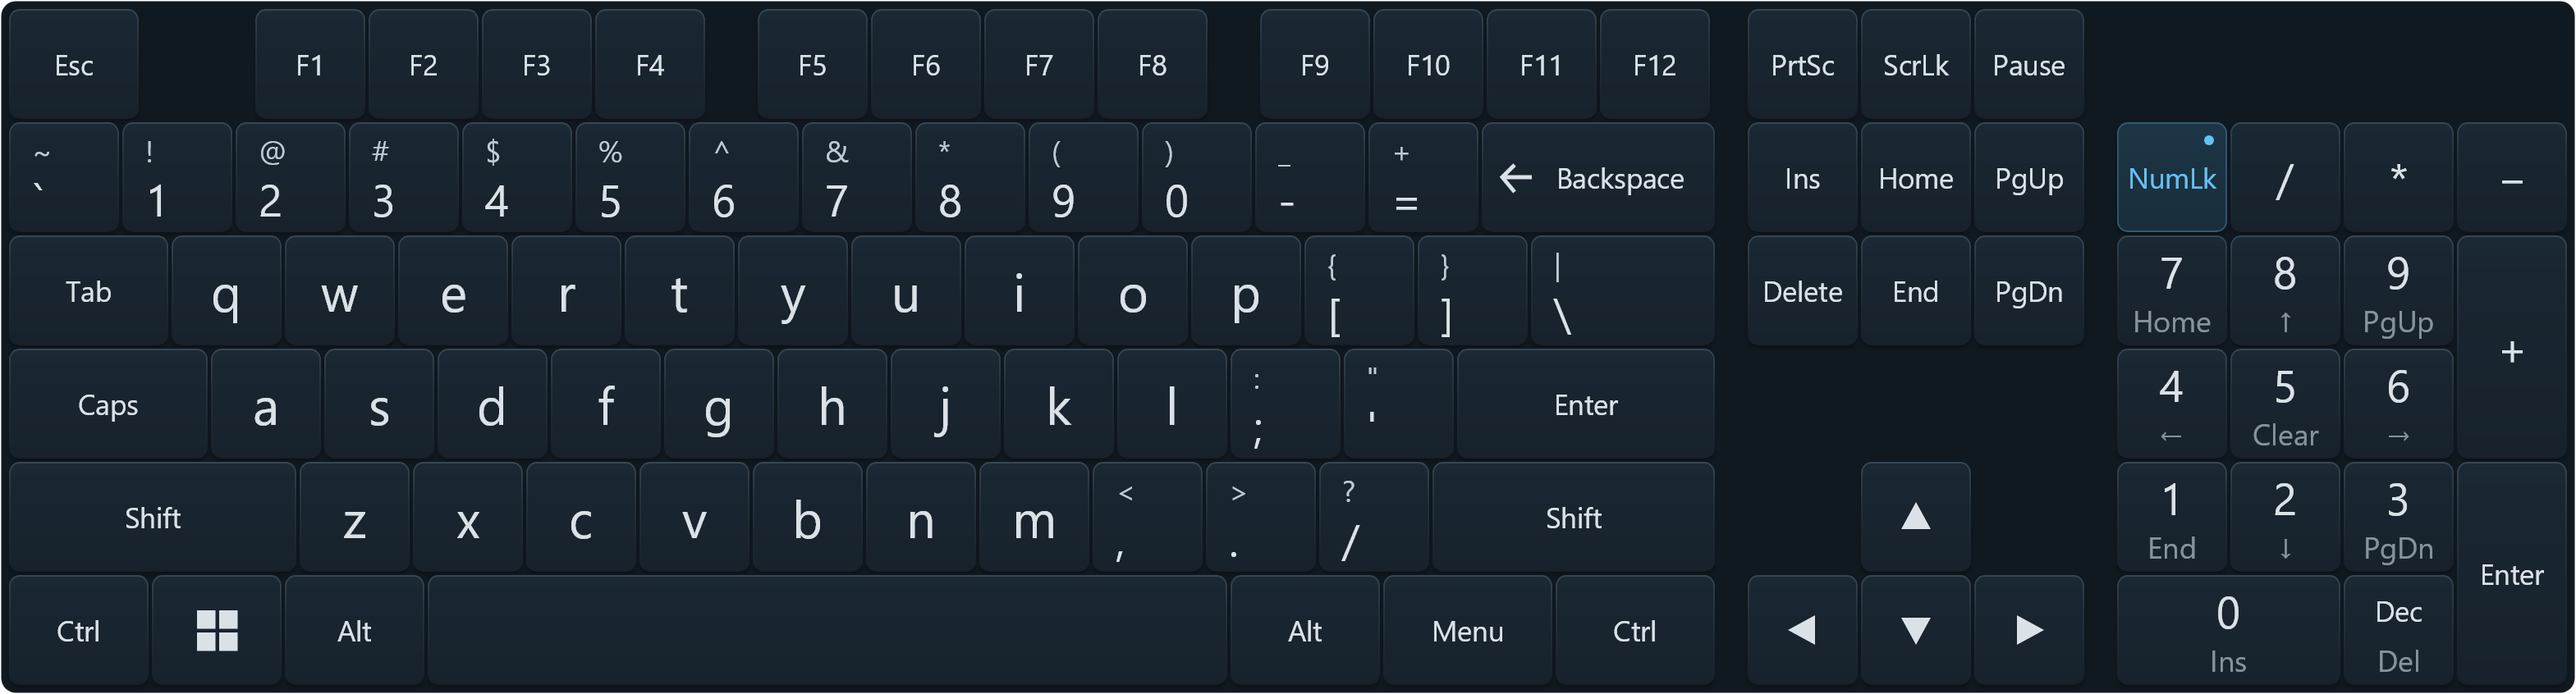
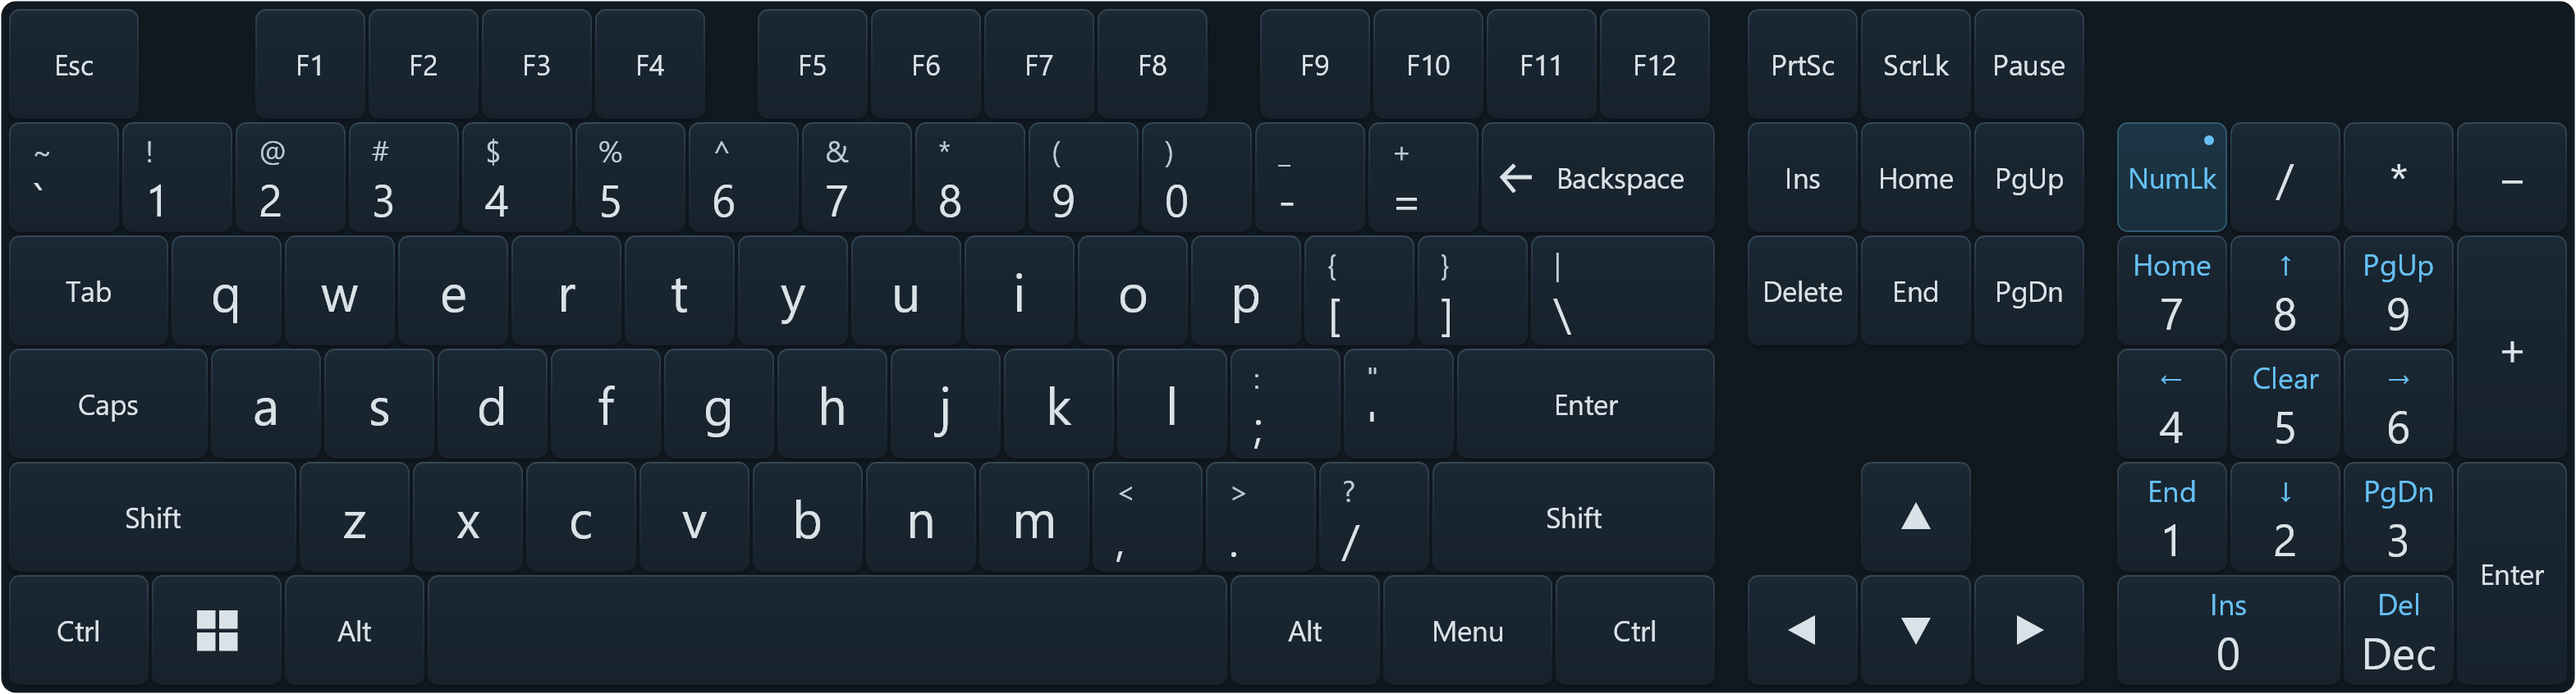
Match numpad active legends to keyboard styling

diff --git a/src/GoBoard.Presentation.Skia/Panel.cs b/src/GoBoard.Presentation.Skia/Panel.cs
@@ -126,13 +126,21 @@ internal static class Panel
                     0x52 => "Ins", 0x53 => "Del", _ => null
                 };
                 var navigationMode = keyboard?.NumLock == false;
-                if (navigation != null && navigationMode && !filled) paint.Color = style.Secondary.WithAlpha(170);
-                Center(canvas, key.Label, rect.MidX, rect.MidY - (navigation != null ? 8 : 0),
-                    key.Label.Length == 1 ? number : special, paint);
-                if (navigation != null)
+                if (navigation == null)
+                    Center(canvas, key.Label, rect.MidX, rect.MidY, key.Label.Length == 1 ? number : special, paint);
+                else
                 {
-                    paint.Color = filled ? Ink : navigationMode ? Accent : style.Secondary.WithAlpha(170);
-                    Center(canvas, navigation, rect.MidX, rect.MidY + 12, secondary, paint);
+                    var active = navigationMode ? navigation : key.Label;
+                    var alternate = navigationMode ? key.Label : navigation;
+                    // Match ordinary dual legends: small alternate above, full-size
+                    // normal-colored output below. Fit long names without reducing height.
+                    using var activeFont = new SKFont(face, number.Size)
+                    {
+                        ScaleX = Math.Min(1, (rect.Width - 8) / Math.Max(1, number.MeasureText(active)))
+                    };
+                    canvas.DrawText(active, rect.MidX, rect.Bottom - 6, SKTextAlign.Center, activeFont, paint);
+                    paint.Color = filled ? Ink : Accent;
+                    canvas.DrawText(alternate, rect.MidX, rect.Top + 16, SKTextAlign.Center, secondary, paint);
                 }
             }
             else if (key.Id is "Up" or "Down" or "Left" or "Right") DrawArrow(canvas, key.Id, rect.MidX, rect.MidY, paint);

diff --git a/docs/development.md b/docs/development.md
@@ -121,7 +121,7 @@ The default panel is 850 x 282 logical units, rendered at 2550 x 846 and display
 
 **Settings → General → Arrangement → Numpad** adds a standard 17-key keypad to the right of the main keyboard in desktop and VR. It defaults to off and is saved independently of the physical ANSI/ISO arrangement and shortcut palette. Main key positions and sizes are unchanged; the panel grows from 850 to 1046 logical units (about 111 cm wide at 100% in VR). Desktop mode fits the wider keyboard to the monitor's work area when necessary.
 
-The keys use physical keypad identities, including extended Divide and Enter, through the same guarded input path as the main keys. Digits and decimal follow Windows Num Lock; the NumLk indicator reflects the Windows toggle. Secondary labels show Home/End, PgUp/PgDn, arrows, Ins/Del and Clear (keypad 5); they turn cyan when Num Lock is off, while the numeric labels become muted. Clear is a Windows key action, with behavior determined by the receiving app ([Windows keypad mappings](https://github.com/microsoft/Windows-driver-samples/blob/main/input/layout/all_kbds/kbdfr/kbdfr.c)). `Dec` is an action label because Windows controls the decimal separator. Digits and operators repeat with their captured modifier chord; Num Lock and Enter do not repeat. Main-keyboard one-shot and locked modifiers also apply to the keypad.
+The keys use physical keypad identities, including extended Divide and Enter, through the same guarded input path as the main keys. Digits and decimal follow Windows Num Lock; the NumLk indicator reflects the Windows toggle. Each dual-purpose key shows its Num Lock action in the normal text color at the same 18-unit size as the main keyboard's primary symbols, with the alternate action above in smaller cyan text. Turning Num Lock off swaps the numeric and navigation labels (Home/End, PgUp/PgDn, arrows, Ins/Del and Clear on keypad 5). Long primary names fit the key width without reducing their height. Clear is a Windows key action, with behavior determined by the receiving app ([Windows keypad mappings](https://github.com/microsoft/Windows-driver-samples/blob/main/input/layout/all_kbds/kbdfr/kbdfr.c)). `Dec` is an action label because Windows controls the decimal separator. Digits and operators repeat with their captured modifier chord; Num Lock and Enter do not repeat. Main-keyboard one-shot and locked modifiers also apply to the keypad.
 
 Changing the toggle cancels keyboard captures, repeat, hover and queued input from the old geometry, plus active VR move/resize gestures. The VR resize grip follows the new right corner, while the move handle remains centered. Shortcut panels return beside the resized keyboard. Settings writes preserve unrelated preferences. VR keeps a fixed 3138×846 texture and adjusts texel aspect and pointer conversion, preserving texture lifetime and UV orientation across toggles.
 
